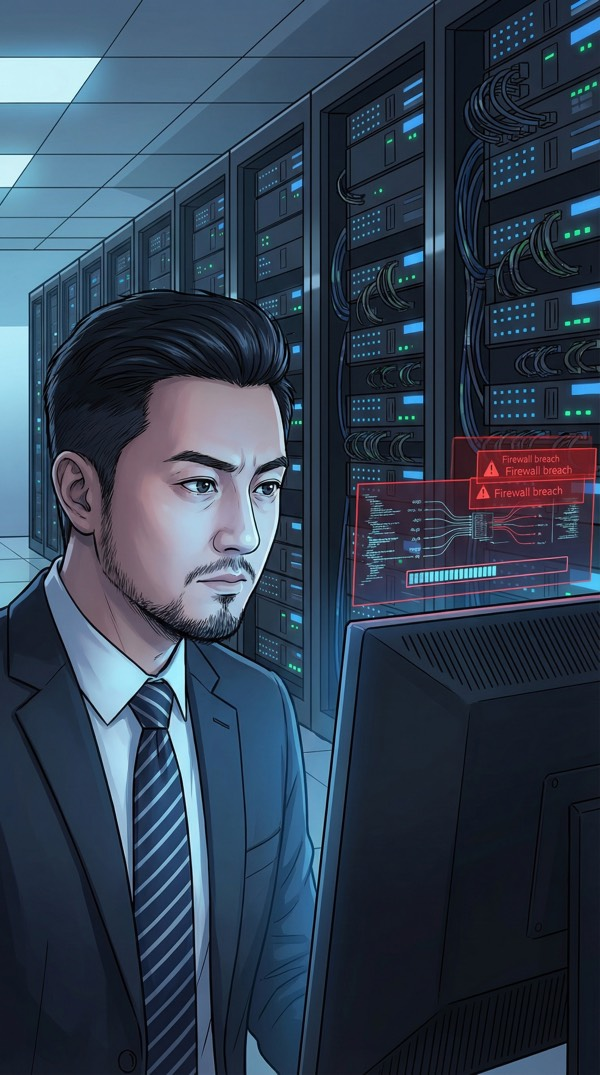
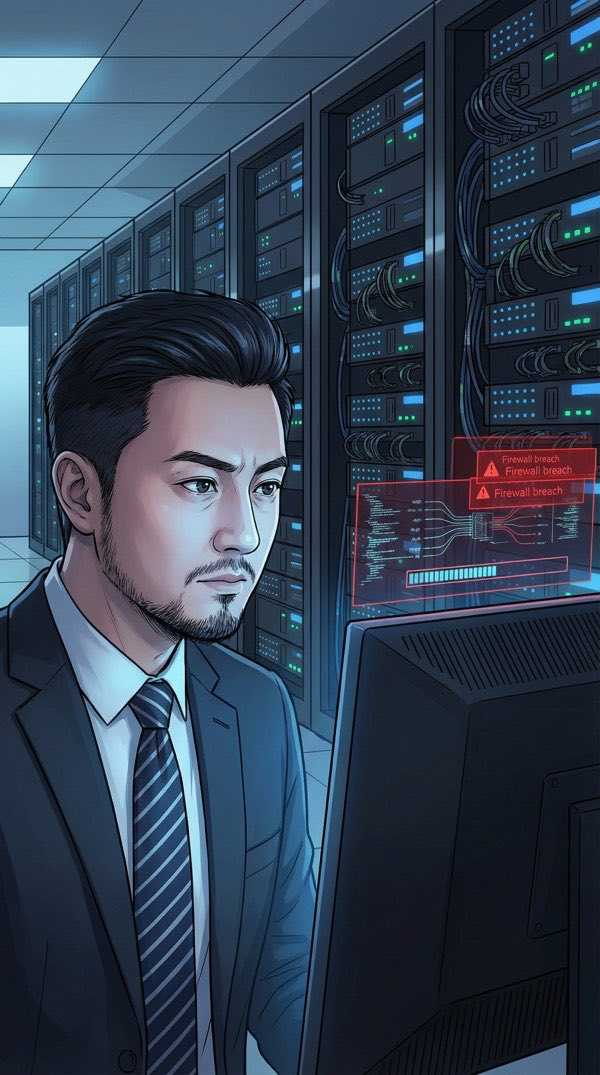
[operator][cycle-622] Deploy EXP-926: 暗网猎手·硅谷暗战 Ch1 数字幽灵 — 40 panels

diff --git a/exp926-dark-web-hunter/index.html b/exp926-dark-web-hunter/index.html
@@ -1,0 +1,218 @@
+<!DOCTYPE html>
+<html lang="zh-CN">
+<head>
+<meta charset="UTF-8">
+<meta name="viewport" content="width=device-width, initial-scale=1.0, maximum-scale=1.0, user-scalable=no">
+<title>暗网猎手·硅谷暗战 Ch1「数字幽灵」</title>
+<style>
+*{margin:0;padding:0;box-sizing:border-box}
+body{background:#0a0a0f;color:#e0e0e0;font-family:'PingFang SC','Hiragino Sans GB','Microsoft YaHei',sans-serif;line-height:1.8;overflow-x:hidden}
+.panel{width:100%;max-width:600px;margin:0 auto;position:relative}
+.panel img{width:100%;display:block;border-radius:2px}
+.text-block{padding:16px 20px;font-size:18px}
+.narration{color:#a0b4c8;font-size:16px;font-style:italic;padding:12px 20px;border-left:3px solid #1a4a6e}
+.dialogue{color:#fff;font-size:19px;padding:12px 20px;background:rgba(20,40,60,0.5);border-radius:8px;margin:8px 16px}
+.speaker{color:#4ecdc4;font-size:14px;margin-bottom:4px;font-weight:bold}
+.inner-voice{color:#7eb8da;font-size:17px;padding:12px 20px;font-style:italic;border-left:3px solid #2a6a9e;margin:8px 16px;background:rgba(30,60,90,0.3)}
+.scene-title{text-align:center;color:#4ecdc4;font-size:22px;font-weight:bold;padding:30px 20px 10px;letter-spacing:4px;text-shadow:0 0 20px rgba(78,205,196,0.4)}
+.decision-box{background:linear-gradient(135deg,rgba(78,205,196,0.1),rgba(30,60,120,0.2));border:1px solid rgba(78,205,196,0.3);border-radius:12px;margin:16px;padding:20px;text-align:center}
+.decision-box h3{color:#4ecdc4;font-size:20px;margin-bottom:12px}
+.decision-choice{color:#fff;font-size:17px;padding:8px 0}
+.decision-result{color:#ffd700;font-size:16px;margin-top:12px;font-weight:bold}
+.chapter-end{text-align:center;padding:40px 20px;background:linear-gradient(to bottom,transparent,rgba(78,205,196,0.05))}
+.chapter-end h2{color:#4ecdc4;font-size:26px;letter-spacing:6px;text-shadow:0 0 30px rgba(78,205,196,0.5)}
+.chapter-end p{color:#7eb8da;font-size:16px;margin-top:16px}
+.separator{height:2px;background:linear-gradient(to right,transparent,rgba(78,205,196,0.3),transparent);margin:20px 0}
+.fade-in{opacity:0;transform:translateY(20px);transition:opacity 0.8s,transform 0.8s}
+.fade-in.visible{opacity:1;transform:translateY(0)}
+</style>
+</head>
+<body>
+
+<div class="scene-title">▌ 凌晨入侵 ▌</div>
+
+<div class="panel fade-in"><img src="panel01.jpg" loading="lazy" alt=""></div>
+<div class="narration fade-in">凌晨两点十三分。整栋大楼只剩我和嗡嗡作响的服务器。</div>
+
+<div class="panel fade-in"><img src="panel02.jpg" loading="lazy" alt=""></div>
+<div class="inner-voice fade-in">屏幕上突然跳出一连串红色警报——有人在攻击我们的核心数据库。</div>
+
+<div class="panel fade-in"><img src="panel03.jpg" loading="lazy" alt=""></div>
+<div class="narration fade-in">防火墙日志像瀑布一样疯狂滚动。入侵者的攻击频率远超普通黑客——每秒数百次精确打击。</div>
+
+<div class="panel fade-in"><img src="panel04.jpg" loading="lazy" alt=""></div>
+<div class="inner-voice fade-in">我的手指自动落在了键盘上。八年没有这种感觉了——那种肾上腺素飙升、大脑高速运转的感觉。</div>
+
+<div class="panel fade-in"><img src="panel05.jpg" loading="lazy" alt=""></div>
+<div class="inner-voice fade-in">这个攻击手法……我见过。八年前，在那个圈子里。</div>
+
+<div class="separator"></div>
+
+<div class="panel fade-in"><img src="panel06.jpg" loading="lazy" alt=""></div>
+<div class="dialogue fade-in"><div class="speaker">小陈</div>"朱总！朱总！他们在拖我们的用户画像数据库！三层防火墙全破了！"</div>
+
+<div class="panel fade-in"><img src="panel07.jpg" loading="lazy" alt=""></div>
+<div class="narration fade-in">数据库提取进度条跳到了47%。每一秒都是几十万条用户数据在流失。</div>
+
+<div class="panel fade-in"><img src="panel08.jpg" loading="lazy" alt=""></div>
+<div class="inner-voice fade-in">我做了一个所有CTO都不该做的事——直接接管终端，亲手反击。</div>
+
+<div class="panel fade-in"><img src="panel09.jpg" loading="lazy" alt=""></div>
+<div class="narration fade-in">绿色的代码流在屏幕上飞速滚动。我和对方在数字空间中正面交锋——攻防转换只在毫秒之间。</div>
+
+<div class="panel fade-in"><img src="panel10.jpg" loading="lazy" alt=""></div>
+<div class="dialogue fade-in"><div class="speaker">小陈</div>"朱……朱总，你这是在干什么？这些代码……"</div>
+<div class="inner-voice fade-in">小陈的声音从身后传来，带着难以置信。他是公司最好的安全工程师，但他看不懂我在写的东西。</div>
+
+<div class="separator"></div>
+<div class="scene-title">▌ 数字对决 ▌</div>
+
+<div class="panel fade-in"><img src="panel11.jpg" loading="lazy" alt=""></div>
+<div class="narration fade-in">两股数据流在虚拟空间中碰撞——蓝色是我的防御，红色是入侵者的攻击。代码如同刀剑般交错。</div>
+
+<div class="panel fade-in"><img src="panel12.jpg" loading="lazy" alt=""></div>
+<div class="inner-voice fade-in">对方突然停了。留下了一段加密信息。解密之后只有一句话——</div>
+
+<div class="panel fade-in"><img src="panel13.jpg" loading="lazy" alt=""></div>
+<div class="narration fade-in">"幽灵，好久不见。"</div>
+<div class="inner-voice fade-in">我整个人僵住了。</div>
+
+<div class="panel fade-in"><img src="panel14.jpg" loading="lazy" alt=""></div>
+<div class="inner-voice fade-in">"幽灵"——这是我大学时代的黑客代号。知道这个名字的人，一只手数得过来。</div>
+
+<div class="separator"></div>
+
+<div class="decision-box fade-in">
+<h3>⚡ 决策点 1</h3>
+<div class="decision-choice">A. 报警，让网安部门专业介入</div>
+<div class="decision-choice">B. 自己追查——但暴露身份的风险极大</div>
+<div class="separator"></div>
+<div class="decision-result">我选择了自己查。不是不信任警方——而是这涉及"幽灵"的秘密。我必须先搞清楚对方知道多少。但我让小陈按流程报备了安全事件。底线不能破。</div>
+</div>
+
+<div class="panel fade-in"><img src="panel15.jpg" loading="lazy" alt=""></div>
+<div class="inner-voice fade-in">手指悬在屏幕前，几乎要碰到那行绿色的字。有什么东西在我心里翻涌——恐惧，还是……兴奋？</div>
+
+<div class="panel fade-in"><img src="panel16.jpg" loading="lazy" alt=""></div>
+<div class="dialogue fade-in"><div class="speaker">我</div>"小陈，安全事件按流程上报。但追查这件事……我亲自来。"</div>
+
+<div class="separator"></div>
+<div class="scene-title">▌ 白天与黑夜 ▌</div>
+
+<div class="panel fade-in"><img src="panel17.jpg" loading="lazy" alt=""></div>
+<div class="narration fade-in">第二天早上，我穿着藏青色西装走进公司，和每个人微笑打招呼。没人知道我昨晚经历了什么。</div>
+
+<div class="panel fade-in"><img src="panel18.jpg" loading="lazy" alt=""></div>
+<div class="inner-voice fade-in">镜子里这张脸——体面的CTO、成功的创业者。但眼底的黑眼圈出卖了我。</div>
+
+<div class="separator"></div>
+<div class="scene-title">▌ 幽灵重出 ▌</div>
+
+<div class="panel fade-in"><img src="panel19.jpg" loading="lazy" alt=""></div>
+<div class="narration fade-in">深夜。自家书房。三块屏幕亮起——上面运行着我大学时代写的追踪工具。界面丑到爆，但效率无与伦比。</div>
+
+<div class="panel fade-in"><img src="panel20.jpg" loading="lazy" alt=""></div>
+<div class="inner-voice fade-in">一层层剥开代理服务器，像剥洋葱。每剥一层，离真相就近一步。</div>
+
+<div class="panel fade-in"><img src="panel21.jpg" loading="lazy" alt=""></div>
+<div class="dialogue fade-in"><div class="speaker">小陈</div>"等等……这个IP指向的是……周总的公司？"</div>
+
+<div class="panel fade-in"><img src="panel22.jpg" loading="lazy" alt=""></div>
+<div class="inner-voice fade-in">追踪结果指向了竞争对手——周智远的公司。但不对。太明显了。像是故意留给我的面包屑。</div>
+
+<div class="panel fade-in"><img src="panel23.jpg" loading="lazy" alt=""></div>
+<div class="inner-voice fade-in">设局的人，想让我去找周总。但为什么？</div>
+
+<div class="panel fade-in"><img src="panel24.jpg" loading="lazy" alt=""></div>
+<div class="dialogue fade-in"><div class="speaker">小陈</div>"朱总你这是什么远古时代的玩意？界面也太……朴素了吧？"</div>
+<div class="dialogue fade-in"><div class="speaker">我</div>"别看UI丑，这东西能穿透90%的代理。2012年我写的。"</div>
+
+<div class="panel fade-in"><img src="panel25.jpg" loading="lazy" alt=""></div>
+<div class="narration fade-in">小陈的表情从嫌弃瞬间变成了肃然起敬。年轻人就是这样——只看脸不看实力。</div>
+
+<div class="separator"></div>
+
+<div class="decision-box fade-in">
+<h3>⚡ 决策点 2</h3>
+<div class="decision-choice">A. 拒绝周总邀约，继续暗中追查</div>
+<div class="decision-choice">B. 赴约——正面交锋，同时暗中植入追踪</div>
+<div class="separator"></div>
+<div class="decision-result">我选择赴约。菩萨心肠，霹雳手段。表面谈笑风生，暗地里在他手机连Wi-Fi的瞬间植入追踪。我不是被动等待的人。</div>
+</div>
+
+<div class="scene-title">▌ 茶馆暗战 ▌</div>
+
+<div class="panel fade-in"><img src="panel26.jpg" loading="lazy" alt=""></div>
+<div class="narration fade-in">周总突然约我喝茶。高端茶馆，紫砂壶，好得过分的态度。</div>
+
+<div class="panel fade-in"><img src="panel27.jpg" loading="lazy" alt=""></div>
+<div class="narration fade-in">包间里檀香缭绕。周智远已经坐在那里，笑容满面地站起来迎接我。</div>
+
+<div class="panel fade-in"><img src="panel28.jpg" loading="lazy" alt=""></div>
+<div class="dialogue fade-in"><div class="speaker">周总</div>"朱总，来来来，今天请你品一款好茶。最近辛苦了吧？"</div>
+
+<div class="panel fade-in"><img src="panel29.jpg" loading="lazy" alt=""></div>
+<div class="inner-voice fade-in">茶汤如琥珀般清澈。但我看到的是两双手——一双放松，一双戴着金袖扣。表面平静，暗流涌动。</div>
+
+<div class="panel fade-in"><img src="panel30.jpg" loading="lazy" alt=""></div>
+<div class="dialogue fade-in"><div class="speaker">周总</div>"朱总，听说你们公司最近遇到了一些……技术问题？"</div>
+<div class="inner-voice fade-in">他的眼神里闪过一丝不自然。是试探，还是示威？</div>
+
+<div class="panel fade-in"><img src="panel31.jpg" loading="lazy" alt=""></div>
+<div class="inner-voice fade-in">桌子下面，我的手机正在悄悄运行追踪程序。周总连上包间Wi-Fi的那一刻——追踪就开始了。</div>
+
+<div class="panel fade-in"><img src="panel32.jpg" loading="lazy" alt=""></div>
+<div class="dialogue fade-in"><div class="speaker">我</div>"小问题，已经处理了。倒是周总您最近融资顺利吧？B轮多少？"</div>
+<div class="narration fade-in">他的笑容僵了一瞬。好的，这一轮我赢了。</div>
+
+<div class="separator"></div>
+<div class="scene-title">▌ 深渊凝视 ▌</div>
+
+<div class="panel fade-in"><img src="panel33.jpg" loading="lazy" alt=""></div>
+<div class="narration fade-in">追踪结果出来了。攻击者不是周总的公司——而是通过他的服务器跳板发起的。真正的源头指向……</div>
+
+<div class="panel fade-in"><img src="panel34.jpg" loading="lazy" alt=""></div>
+<div class="inner-voice fade-in">一个政府级别的IP段。</div>
+
+<div class="panel fade-in"><img src="panel35.jpg" loading="lazy" alt=""></div>
+<div class="narration fade-in">网络图像一层层展开——政府数据中心、卫星链路、加密通道。这不是商业间谍，这是国家级别的操作。</div>
+
+<div class="panel fade-in"><img src="panel36.jpg" loading="lazy" alt=""></div>
+<div class="inner-voice fade-in">这件事已经不只是商业竞争了。如果有人在用国家资源搞我的公司，我必须知道为什么。</div>
+
+<div class="decision-box fade-in">
+<h3>⚡ 决策点 3</h3>
+<div class="decision-choice">A. 到此为止——水太深，保命要紧</div>
+<div class="decision-choice">B. 继续深挖——查到底</div>
+<div class="separator"></div>
+<div class="decision-result">继续挖。"幽灵"从来不是个知难而退的人。何况——这次他们先动的手。</div>
+</div>
+
+<div class="separator"></div>
+
+<div class="panel fade-in"><img src="panel37.jpg" loading="lazy" alt=""></div>
+<div class="narration fade-in">第二天早上，一切如常。阳光穿过玻璃幕墙，我迈步走进公司大堂。</div>
+
+<div class="panel fade-in"><img src="panel38.jpg" loading="lazy" alt=""></div>
+<div class="narration fade-in">但玻璃的倒影里，马路对面有个穿黑色夹克的男人一直盯着这栋楼。</div>
+
+<div class="panel fade-in"><img src="panel39.jpg" loading="lazy" alt=""></div>
+<div class="dialogue fade-in"><div class="speaker">???</div>"朱江先生？"</div>
+<div class="narration fade-in">一个方脸短发的男人拦住了我，亮出了证件。网络安全警察。</div>
+
+<div class="panel fade-in"><img src="panel40.jpg" loading="lazy" alt=""></div>
+<div class="dialogue fade-in"><div class="speaker">李队</div>"我们需要谈谈。关于……'幽灵'。"</div>
+
+<div class="chapter-end fade-in">
+<h2>— 第一章 · 完 —</h2>
+<p>「数字幽灵」</p>
+<p style="color:#4ecdc4;margin-top:24px;font-size:14px">敬请期待 第二章「暗网追踪」</p>
+</div>
+
+<script>
+const obs=new IntersectionObserver((entries)=>{entries.forEach(e=>{if(e.isIntersecting){e.target.classList.add('visible');obs.unobserve(e.target)}})},{threshold:0.1});
+document.querySelectorAll('.fade-in').forEach(el=>obs.observe(el));
+</script>
+
+</body>
+</html>
